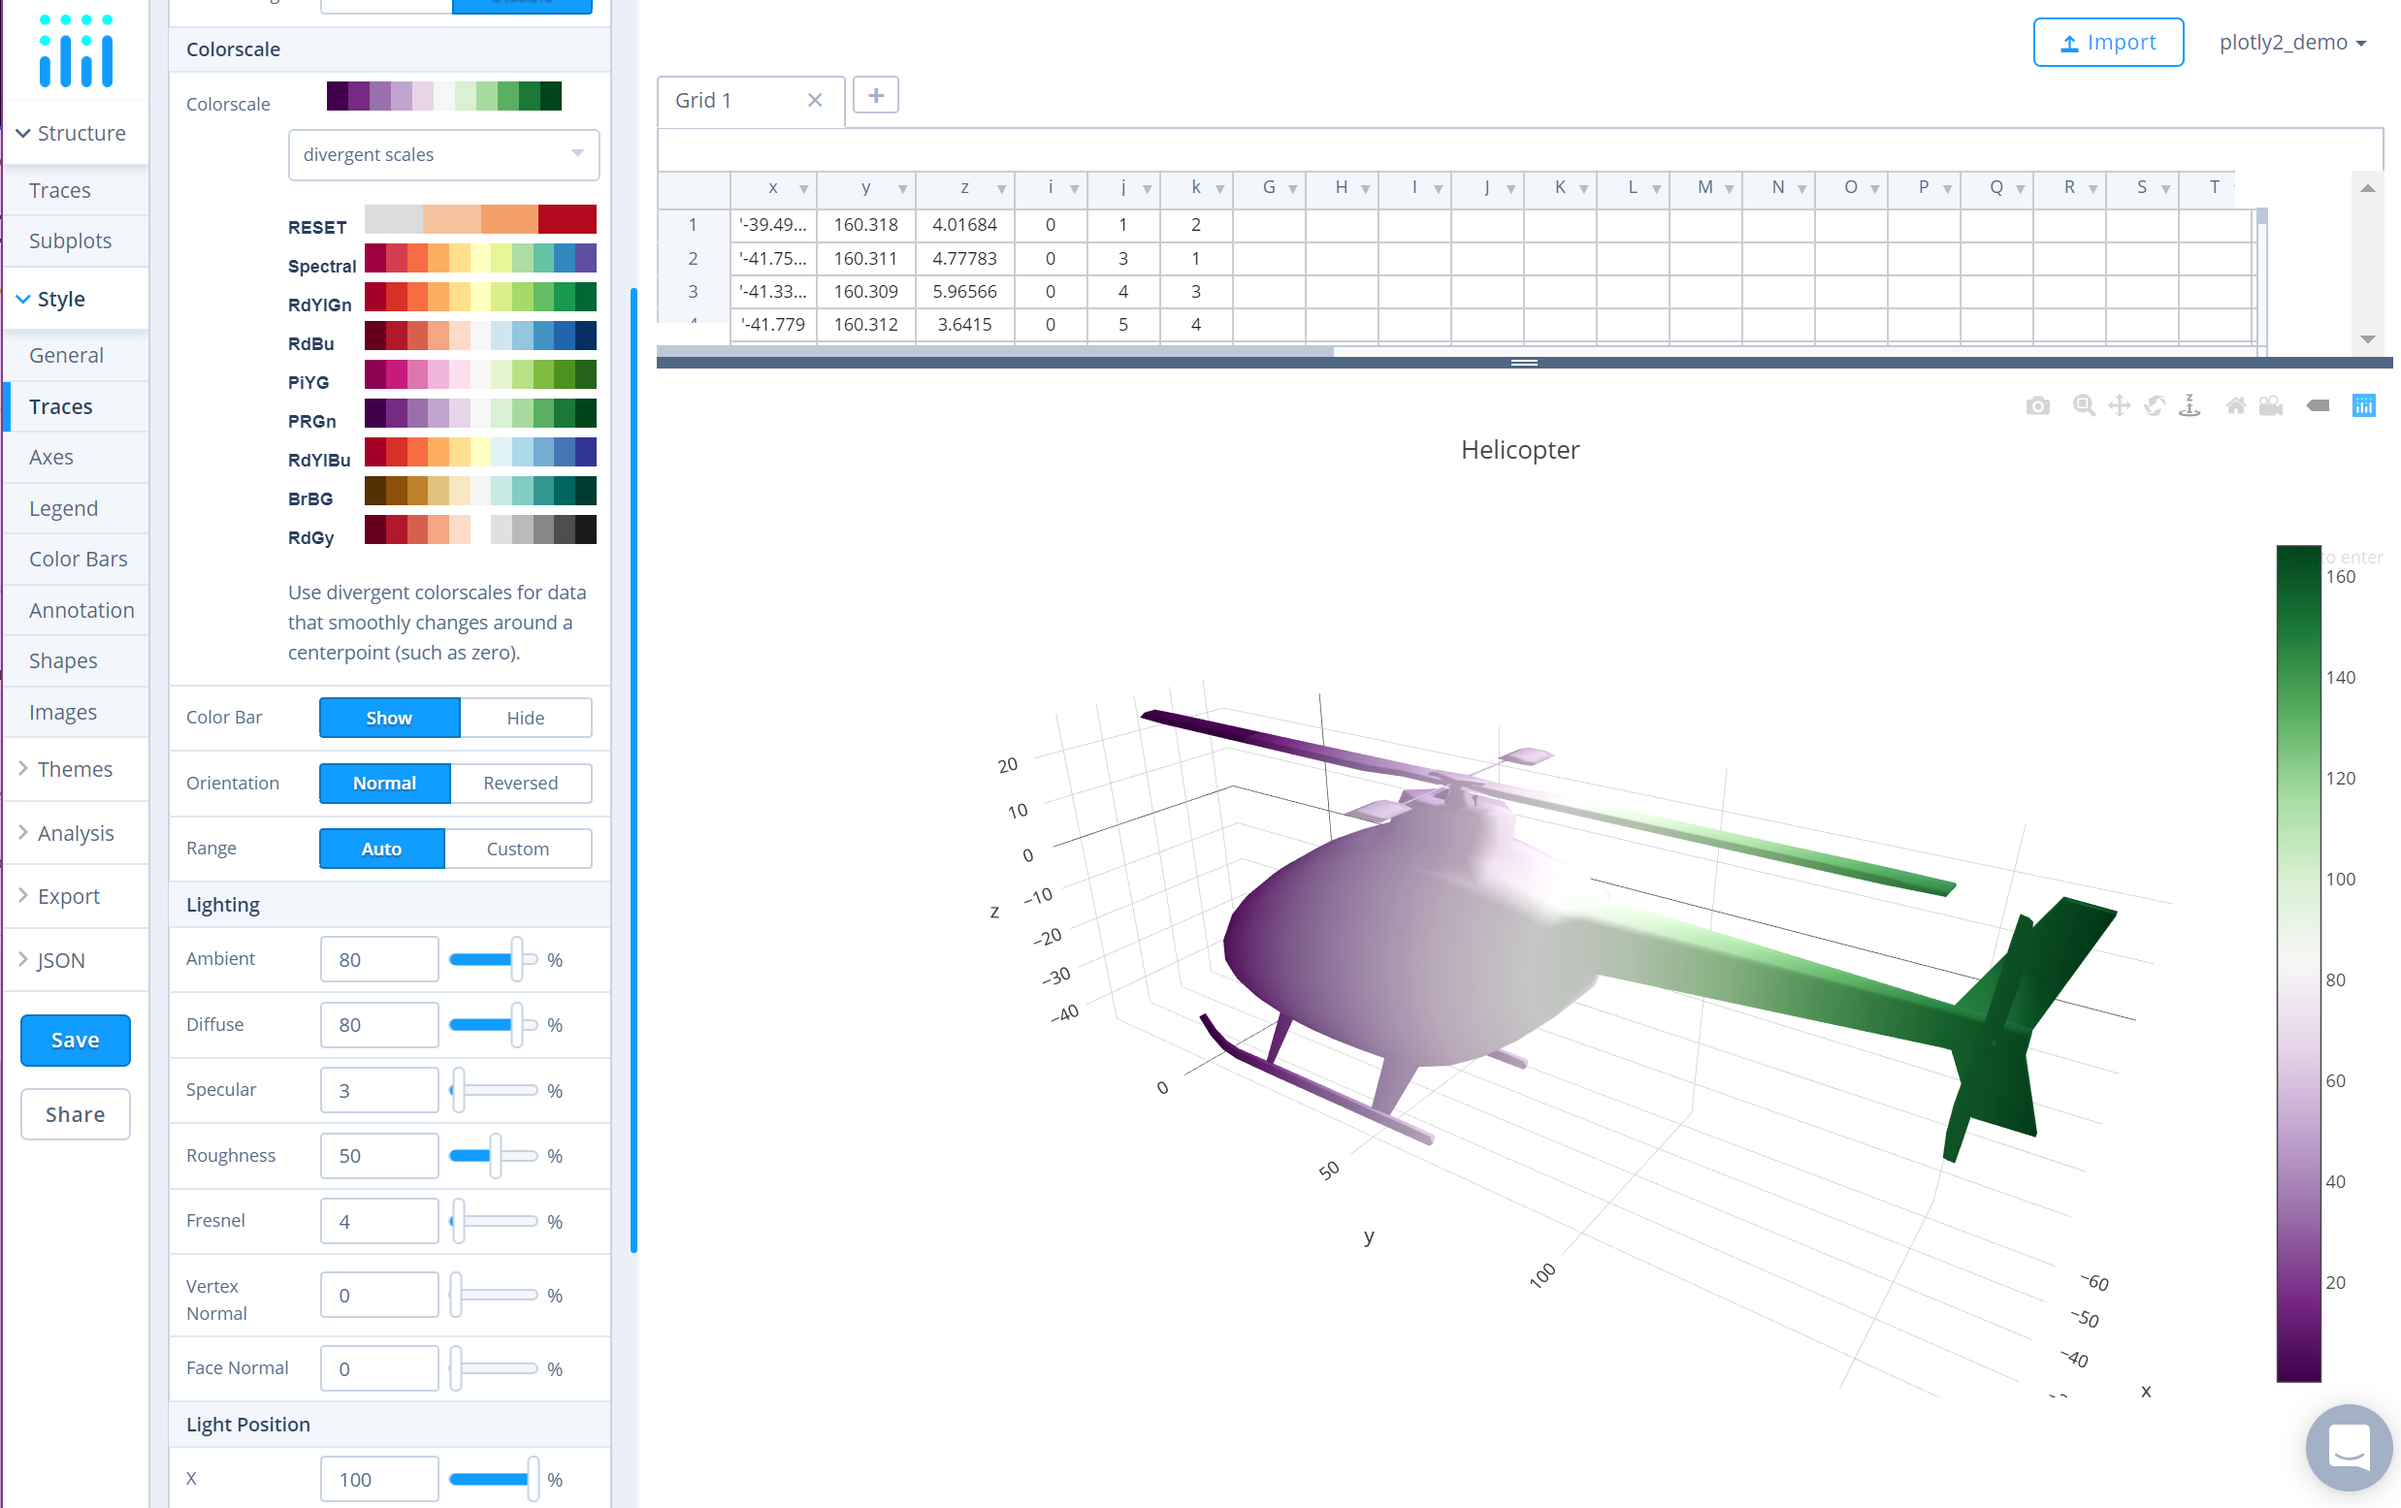
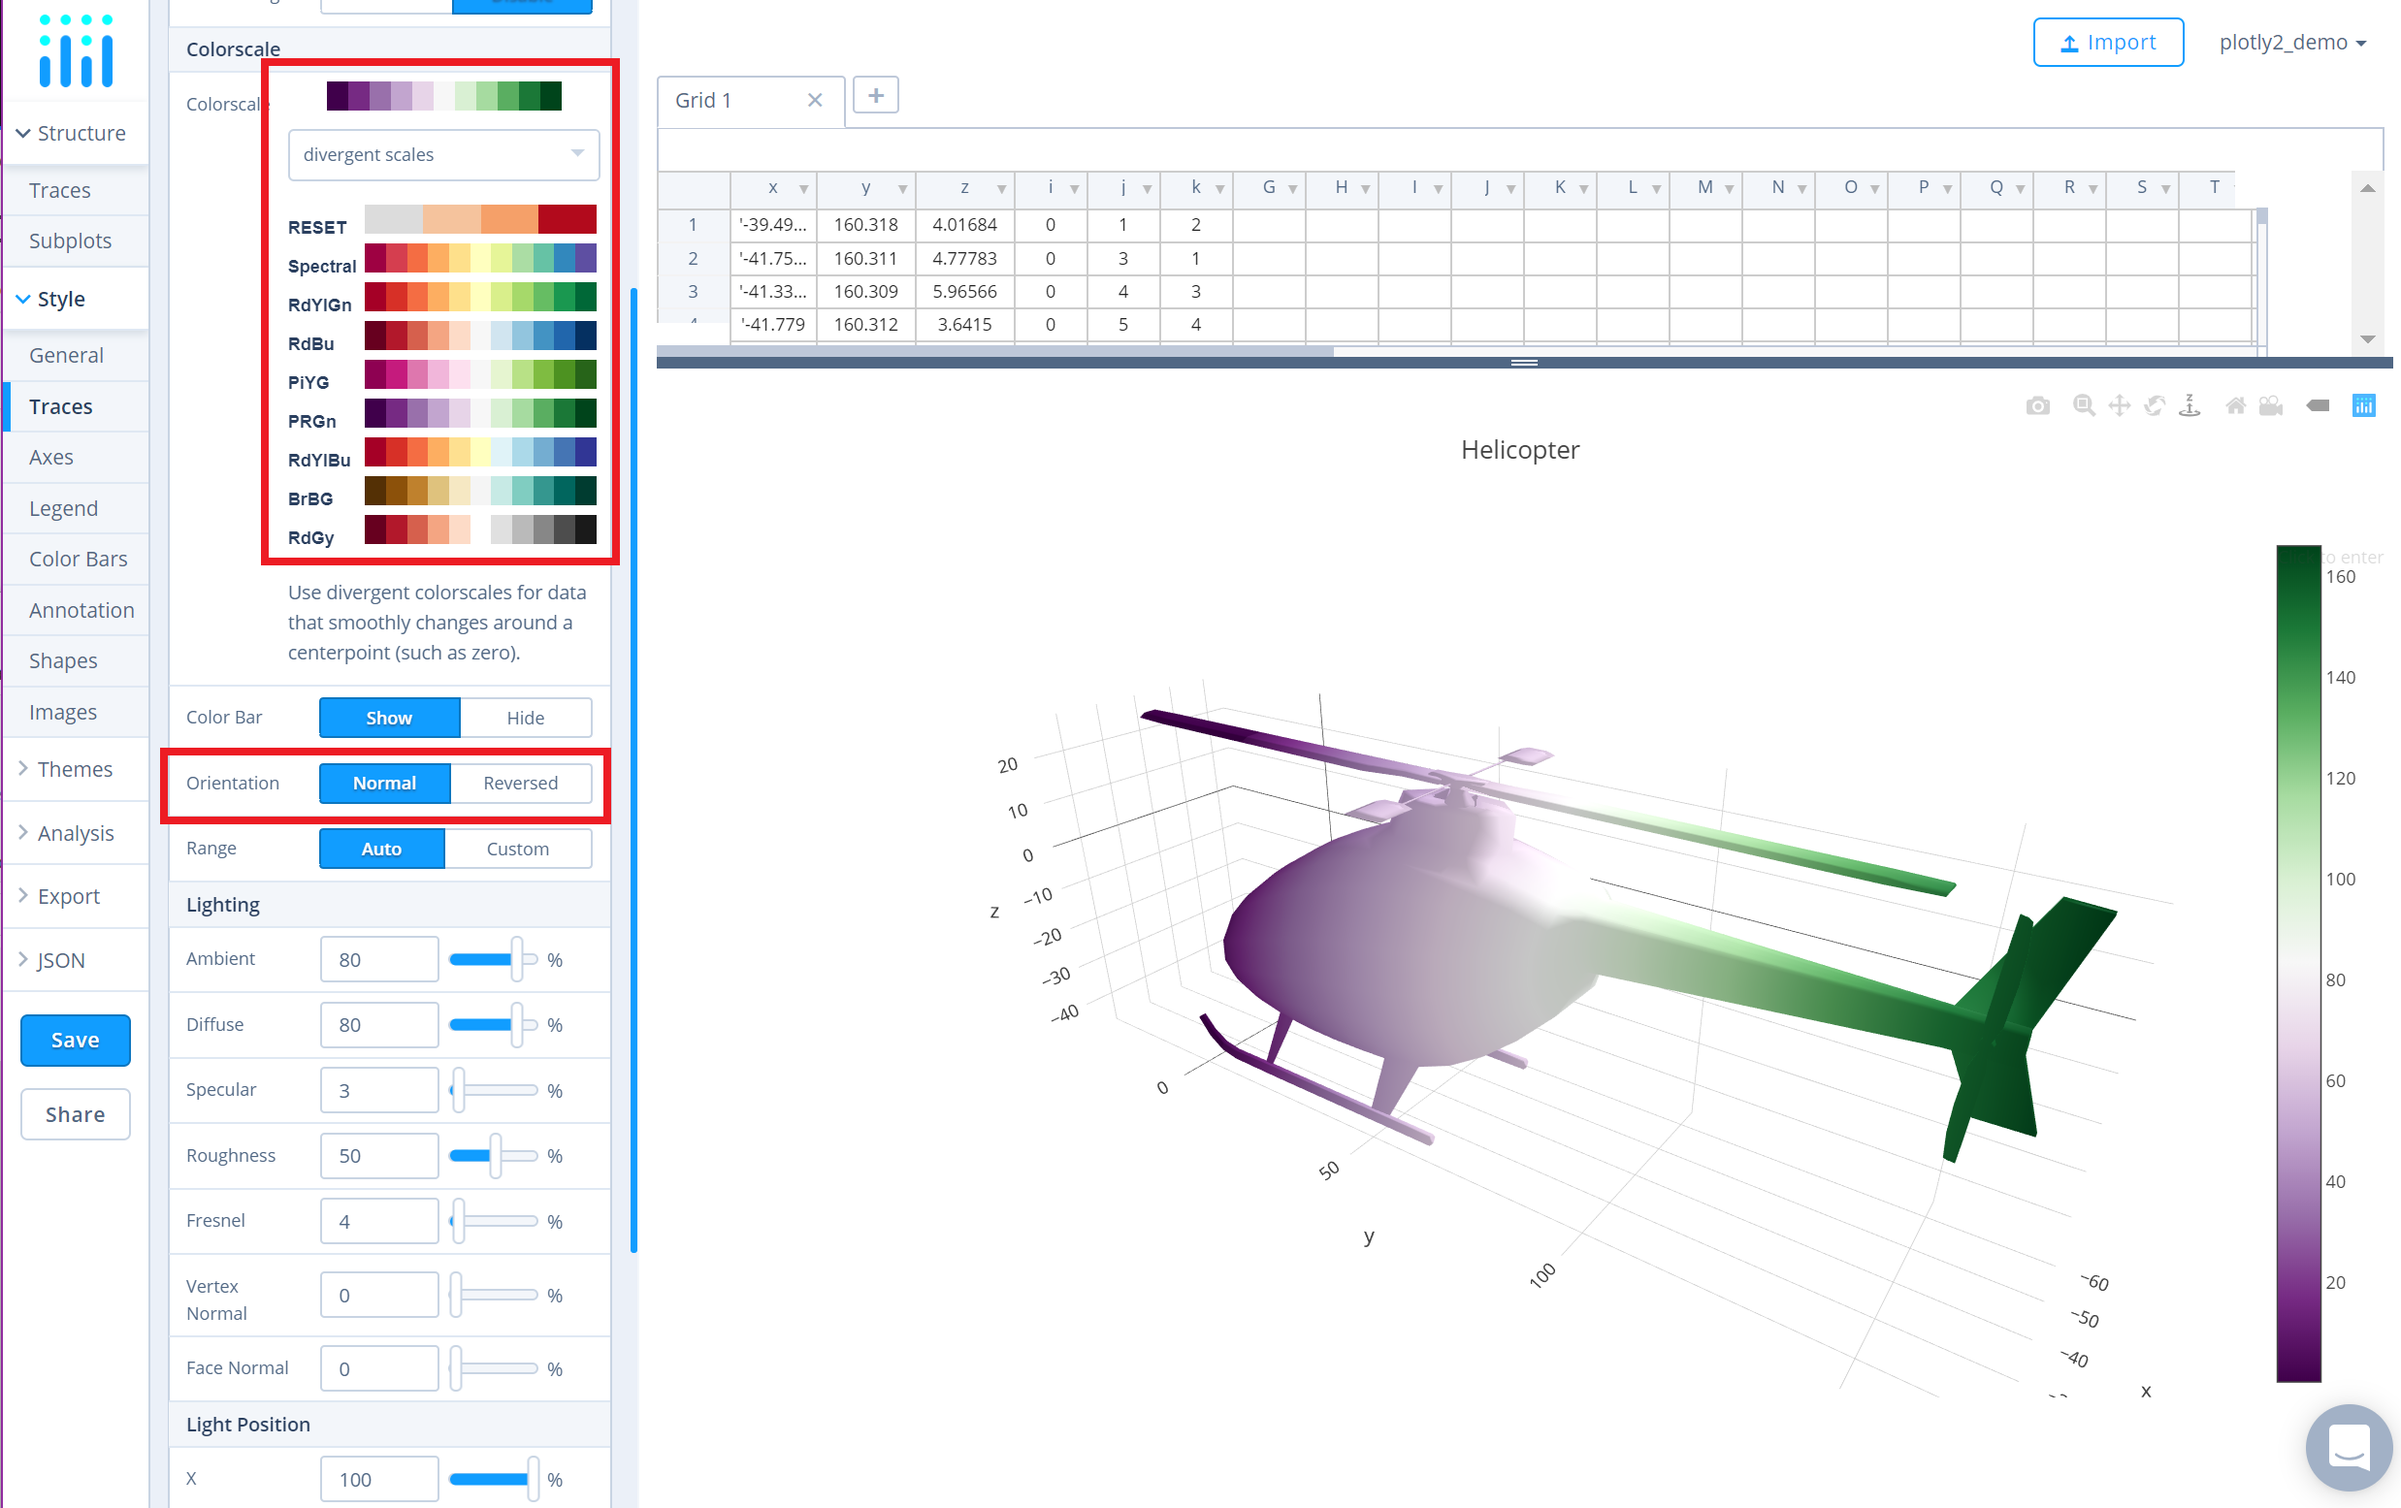
updated axes title info

Changed region(s): [[0.0933, 0.0309, 0.28, 0.3704], [0.0622, 0.4939, 0.28, 0.5556], [0.1244, 0.3704, 0.2489, 0.4013]]

diff --git a/_posts/3d/2017-06-26-3d-mesh-plotly.md b/_posts/3d/2017-06-26-3d-mesh-plotly.md
@@ -32,18 +32,30 @@ steps:
  - title: Create a Chart
    sub-steps:
     - copy: "After adding the data, go to the 'Traces' section under the 'Structure' menu on the left-hand side. Choose the 'Type' of trace, then choose '3D Mesh' under '3D' chart type."
-      img: "![Chart Type](../static/images/3D-mesh-plot/chart-type.png)"
-    - copy: "Next, fill out the necessary 'X', 'Y' and 'Z' values from their respective dropdown menus. This will create a raw 3D surface, as seen below."
-      img: "![Add XYZ values](../static/images/3D-mesh-plot/3D-surface-raw.png)"
-    - copy: "Additionally for 3D mesh plots, you have the option to add 'I', 'J' and 'K' values, immediately below in the trace panel."
-      img: "![Add IJK values](../static/images/3D-mesh-plot/3D-surface-ijk-values.png)"
-    - copy: "Now, that the 3d mesh has it's structure completed, you can now add the coloring options via either of these attributes: 'Intensity', 'Facecolor' or 'Vertexcolor'. The attribute 'Intensity' sets the vertex intensity values, 'Facecolor' sets the color of each face and the 'Vertex' sets the color of each vertex. In this example, the coloring is set via the attribute 'Intensity' using 'Y' axis values."
-      img: "![Coloring Options](../static/images/3D-mesh-plot/3D-surface-color-options.png)"
+      img: "![Chart Type](../static/images/3D-mesh-plot/3D-mesh-chart-type.png)"
+    - copy: "Next, fill out the necessary 'X', 'Y' and 'Z' values from their respective dropdown menus. This will create a raw 3D mesh, as seen below."
+      img: "![Add XYZ values](../static/images/3D-mesh-plot/3D-mesh-xyz.png)"
+    - copy: "Additionally for 3D mesh plots, you have the option to add values for the attributes 'I', 'J' and 'K' that can be found immediately below within the trace panel."
+      img: "![Add IJK values](../static/images/3D-mesh-plot/3D-mesh-ijk.png)"
+    - copy: "Now, that the 3d mesh has it's structure completed, you can now add the coloring options via the following attributes: 'Intensity', 'Facecolor' or 'Vertexcolor'. The attribute 'Intensity' sets the vertex intensity values, 'Facecolor' sets the color of each face and 'Vertex' sets the color of each vertex. In this example, the coloring is set via the attribute 'Intensity' using 'Y' axis values."
+      img: "![Coloring Options](../static/images/3D-mesh-plot/3D-mesh-intensity.png)"
 
  - title: Style a Chart
    sub-steps:
-    - copy: "Now that we have created our chart, you can optionally choose to style it. In this example, we will adjust the aspect ratio. Here, select the 'STYLE' tab on the left-hand side, then 'Layout'. Next select 'Scene', then in the 'Aspect Ratio' dropwdown select 'auto'."
-      img: "![Change aspect ratio](../static/images/3D-mesh-plot/change-aspect-ratio.png)"
+    - copy: "The 'Style' menu displays many options to modify characteristics of the overall chart layout or the individual traces. To see more options about styling the chart, visit the [style and layout](https://help.plot.ly/tutorials/#layout) section of the Chart Studio documentation."
+    - copy: "Use the 'General' section under the 'Style' menu to set the plot title, as well as change the layout background, margin color and font styles."
+    - copy: "To set the plot title, type the title text within the textbox provided under the 'Title' property."
+      img: "![Type title](../static/images/3D-mesh-plot/3D-mesh-title.png)"
+    - copy: "Another approach is to click and then enter the title directly on the plot interface."
+      img: "![Type directly title](../static/images/3D-mesh-plot/3D-mesh-title-direct.png)"
+    - copy: "Use the 'Traces' section under the 'Style' menu to change the properties of the 3D mesh such as the colorscale, lighting effects and its position, and hoverinfo."
+      img: "![Trace Properties](../static/images/3D-mesh-plot/3D-mesh-properties.png)"
+    - copy: "To change the colorscale of the traces, click on the current colorscale next to the attribute 'Colorscale' which will display the available colorscale types within the dropdown menu and the corresponding preset colorscales that are available under that type. Then choose the desired colorscale. To reverse the chosen colorscale, set the 'Orientation' attribute to 'Reversed', as seen below."
+      img: "![Color main](../static/images/3D-mesh-plot/3D-mesh-colorscale.png)"
+    - copy: "Additionally, to show/hide the color bar, set the desired option next to the attribute 'Color Bar'. Use the 'Color Bar' section under the 'Style' menu, to change the properties of the color bar."
+    - copy: "To change the axes tile, go to the 'Axes' section under the 'Style' menu and type the title text within the textbox provided under the 'Title' property for each axis."
+      img: "![Axes title](../static/images/3D-mesh-plot/3D-mesh-axes.png)"
+
 
  - title: Save and Share
    sub-steps:
